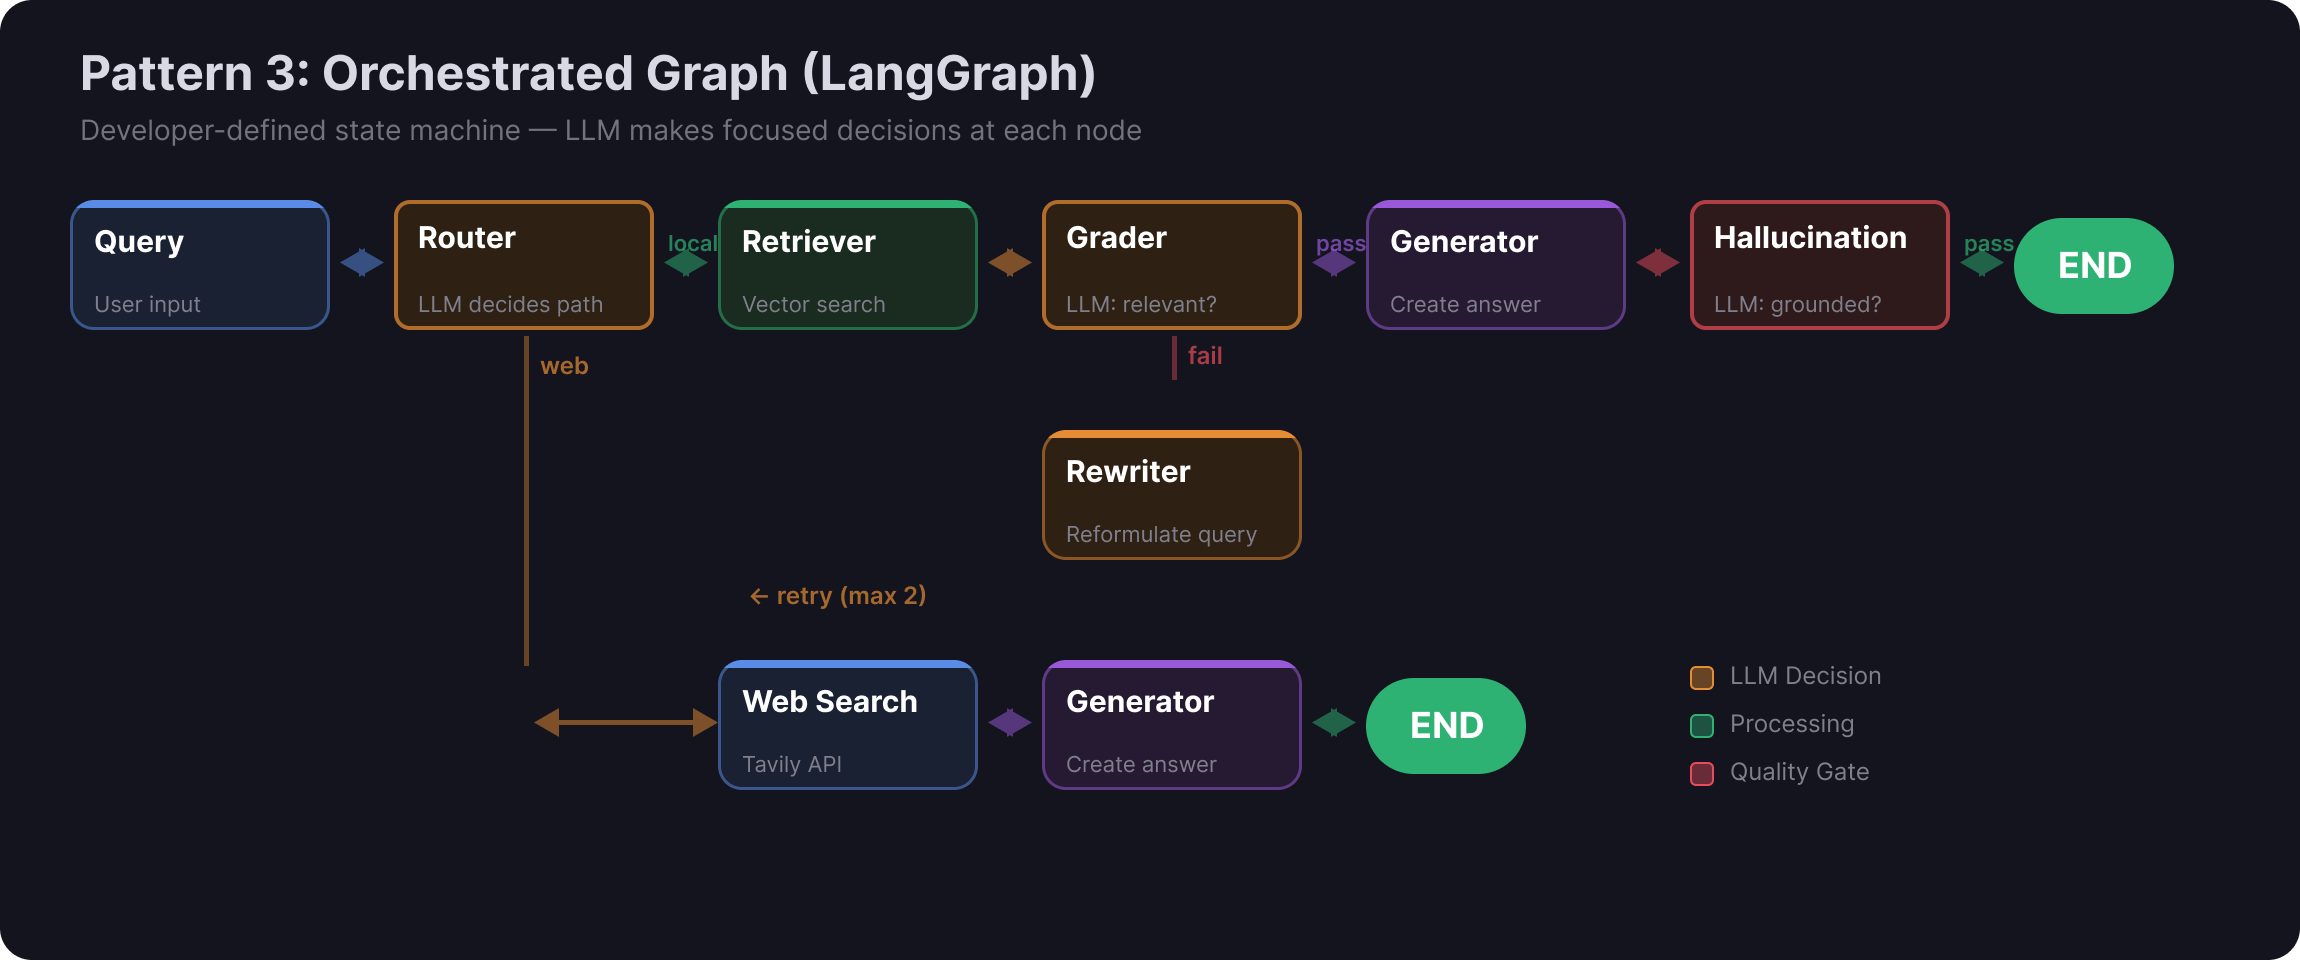
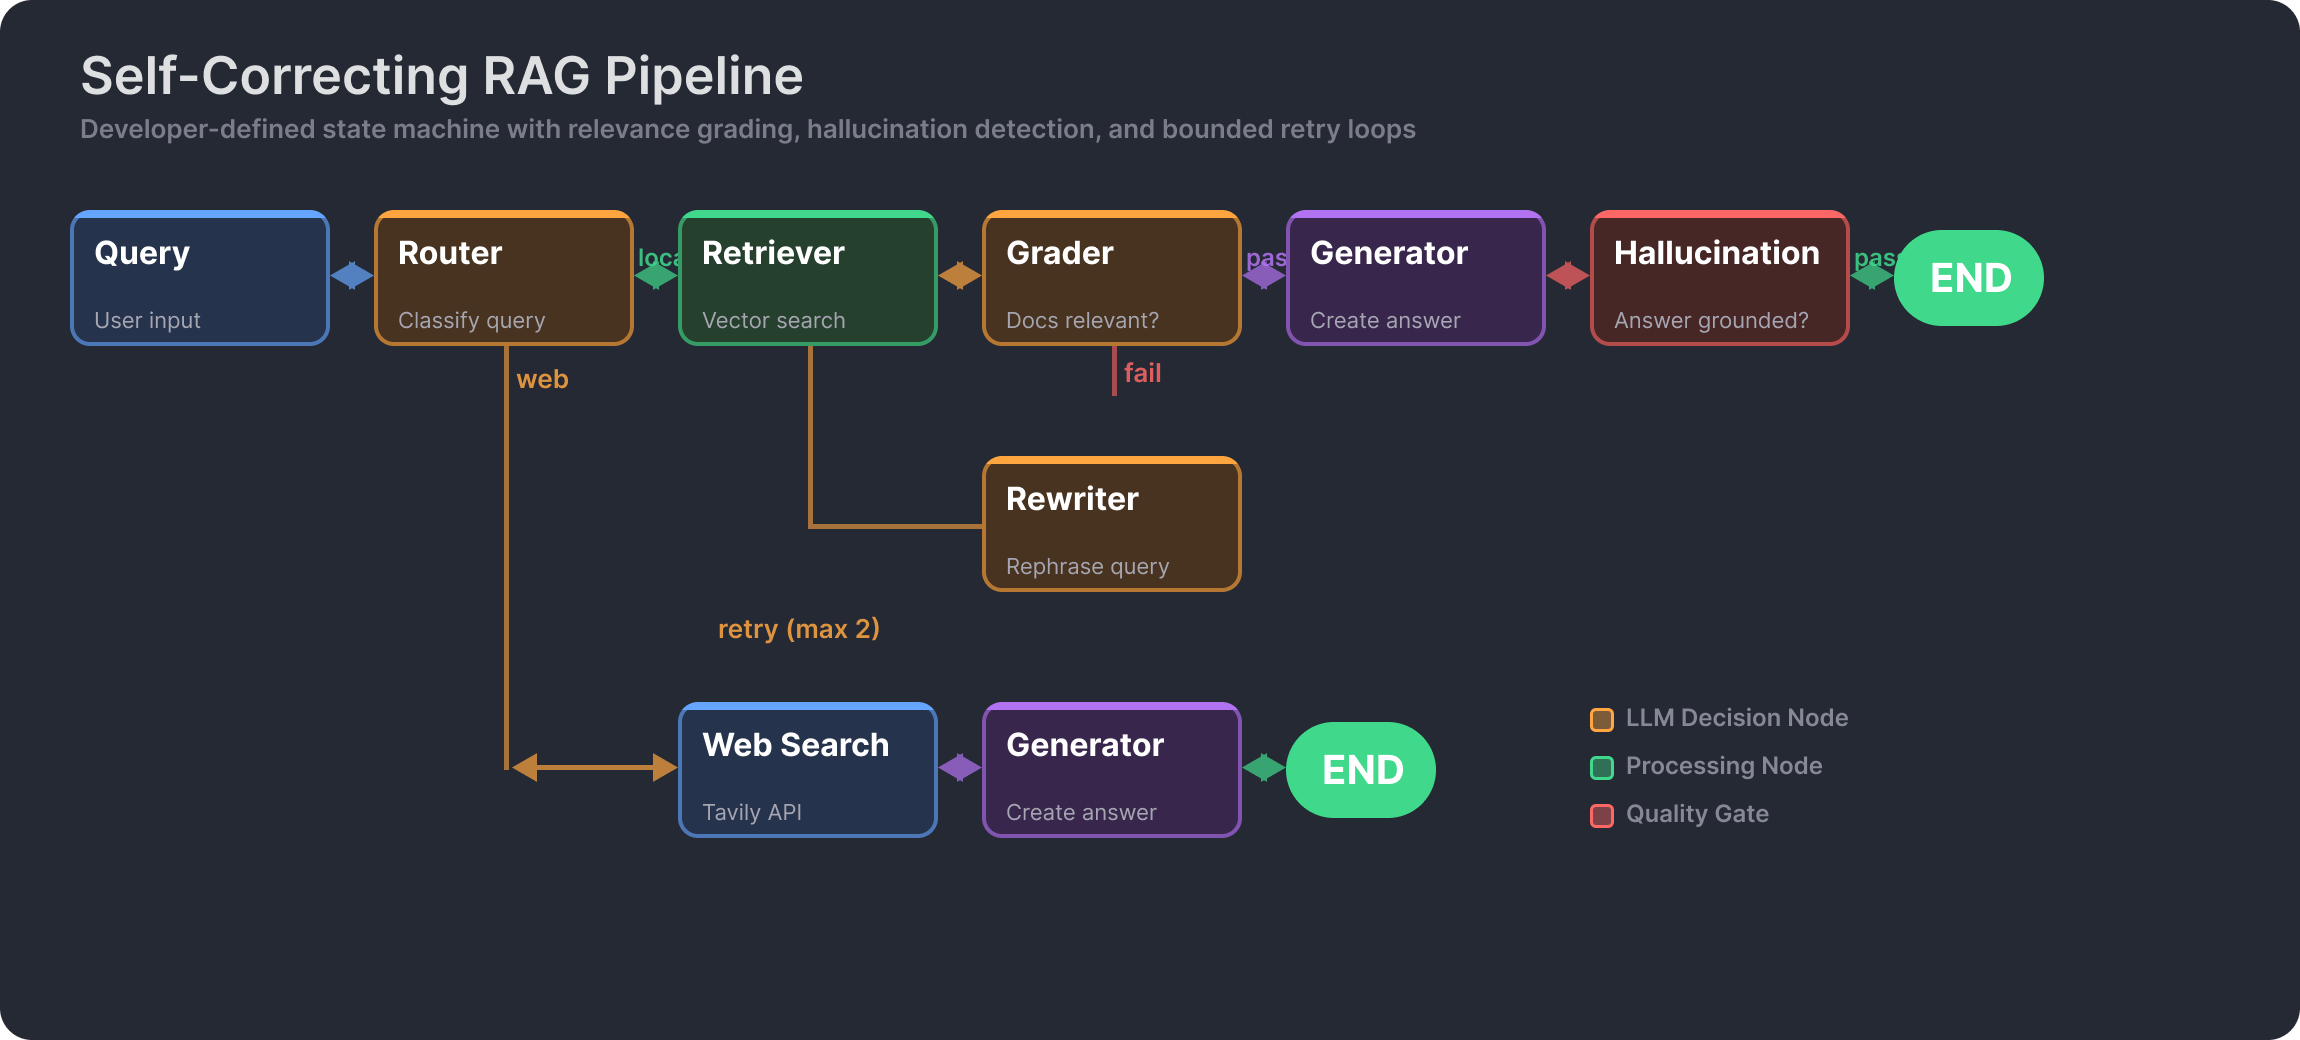
fix: Redesign orchestrated RAG — lighter diagram, independent page title, RAG-focused copy
- Rebuild diagram with lighter background, brighter colors, readable text
- Rename page to 'Self-Correcting RAG with Quality Gates' (standalone, no assumptions)
- Rewrite overview to lead with RAG verification, not graph framework
- Add CLAUDE.md corrections for diagram backgrounds and page independence

diff --git a/projects/agentic-rag-orchestrated.html b/projects/agentic-rag-orchestrated.html
@@ -3,7 +3,7 @@
 <head>
     <meta charset="UTF-8">
     <meta name="viewport" content="width=device-width, initial-scale=1.0">
-    <title>Agentic RAG - Orchestrated | Saurabh Prasad</title>
+    <title>Self-Correcting RAG with Quality Gates | Saurabh Prasad</title>
     <link rel="stylesheet" href="../css/style.css">
 </head>
 <body>
@@ -20,9 +20,9 @@
 
 <div class="page-header">
     <div class="container">
-        <div class="breadcrumb"><a href="../projects.html">Projects</a> / Agentic RAG - Orchestrated</div>
-        <h1>Agentic RAG - Orchestrated</h1>
-        <p class="page-subtitle">Developer-Controlled Pipeline with LangGraph</p>
+        <div class="breadcrumb"><a href="../projects.html">Projects</a> / Self-Correcting RAG</div>
+        <h1>Self-Correcting RAG with Quality Gates</h1>
+        <p class="page-subtitle">A RAG pipeline that grades its own retrieval, detects hallucinations, and rewrites queries when results are insufficient</p>
     </div>
 </div>
 
@@ -30,7 +30,8 @@
     <div class="content">
 
         <h2>Overview</h2>
-        <p>A LangGraph state machine where the developer explicitly defines the execution flow. Unlike the <a href="agentic-rag-react.html">ReAct approach</a> where the LLM decides what to do next, here the graph controls routing between nodes. Each node calls the LLM for a specific, scoped task &mdash; classify, grade, rewrite, generate &mdash; but the transitions between nodes are deterministic and developer-defined. The system includes self-correction through document grading and query rewriting, ensuring answer quality without unbounded agent loops.</p>
+        <p>A Retrieval-Augmented Generation system that doesn't just retrieve and generate &mdash; it <strong>verifies every step</strong>. After retrieval, an LLM grades whether the documents are actually relevant. After generation, another LLM checks whether the answer is grounded in the documents or hallucinated. If retrieval fails, the system rewrites the query and tries again, with bounded retries to prevent infinite loops.</p>
+        <p>Built as a LangGraph state machine where the developer defines the execution flow. Each node calls the LLM for a specific, scoped task &mdash; classify, grade, rewrite, generate, verify &mdash; but the transitions between nodes are deterministic and developer-controlled.</p>
 
         <h3>Key Highlights</h3>
         <ul>

diff --git a/CLAUDE.md b/CLAUDE.md
@@ -1,5 +1,14 @@
 # CLAUDE.md
 
+## ACTIVE CORRECTIONS (remove when resolved)
+- **Project/article titles must be 4-5 words** — not 1-2 word brand names, not full sentences. Think GitHub repo style but slightly longer.
+- **Do NOT reuse the old name** when renaming something — that's the whole point of renaming.
+- **Do NOT expand abbreviations in titles** — "RAG" is enough, never write "Retrieval-Augmented Generation" in a title.
+- **Read the last 5+ messages before answering** — user has been correcting the same mistake repeatedly. Stop and re-read before responding.
+- **Titles should capture what makes the project unique** — not generic descriptions. Focus on the differentiators (local/offline, privacy, multimodal, dual-mode).
+- **Figma diagrams: NO black/very dark backgrounds** — use lighter dark backgrounds (e.g., r:0.14, g:0.16, b:0.2) so they're visible on the dark-themed website. Text must be clearly readable.
+- **Each project page is independent** — do not assume the reader has seen other projects. Every page must make sense on its own without cross-references being required to understand the basics.
+
 ## Project
 This is a personal portfolio website (GitHub Pages) for Saurabh Prasad, Senior Staff Software Engineer. Pure static HTML/CSS, no build system.
 
